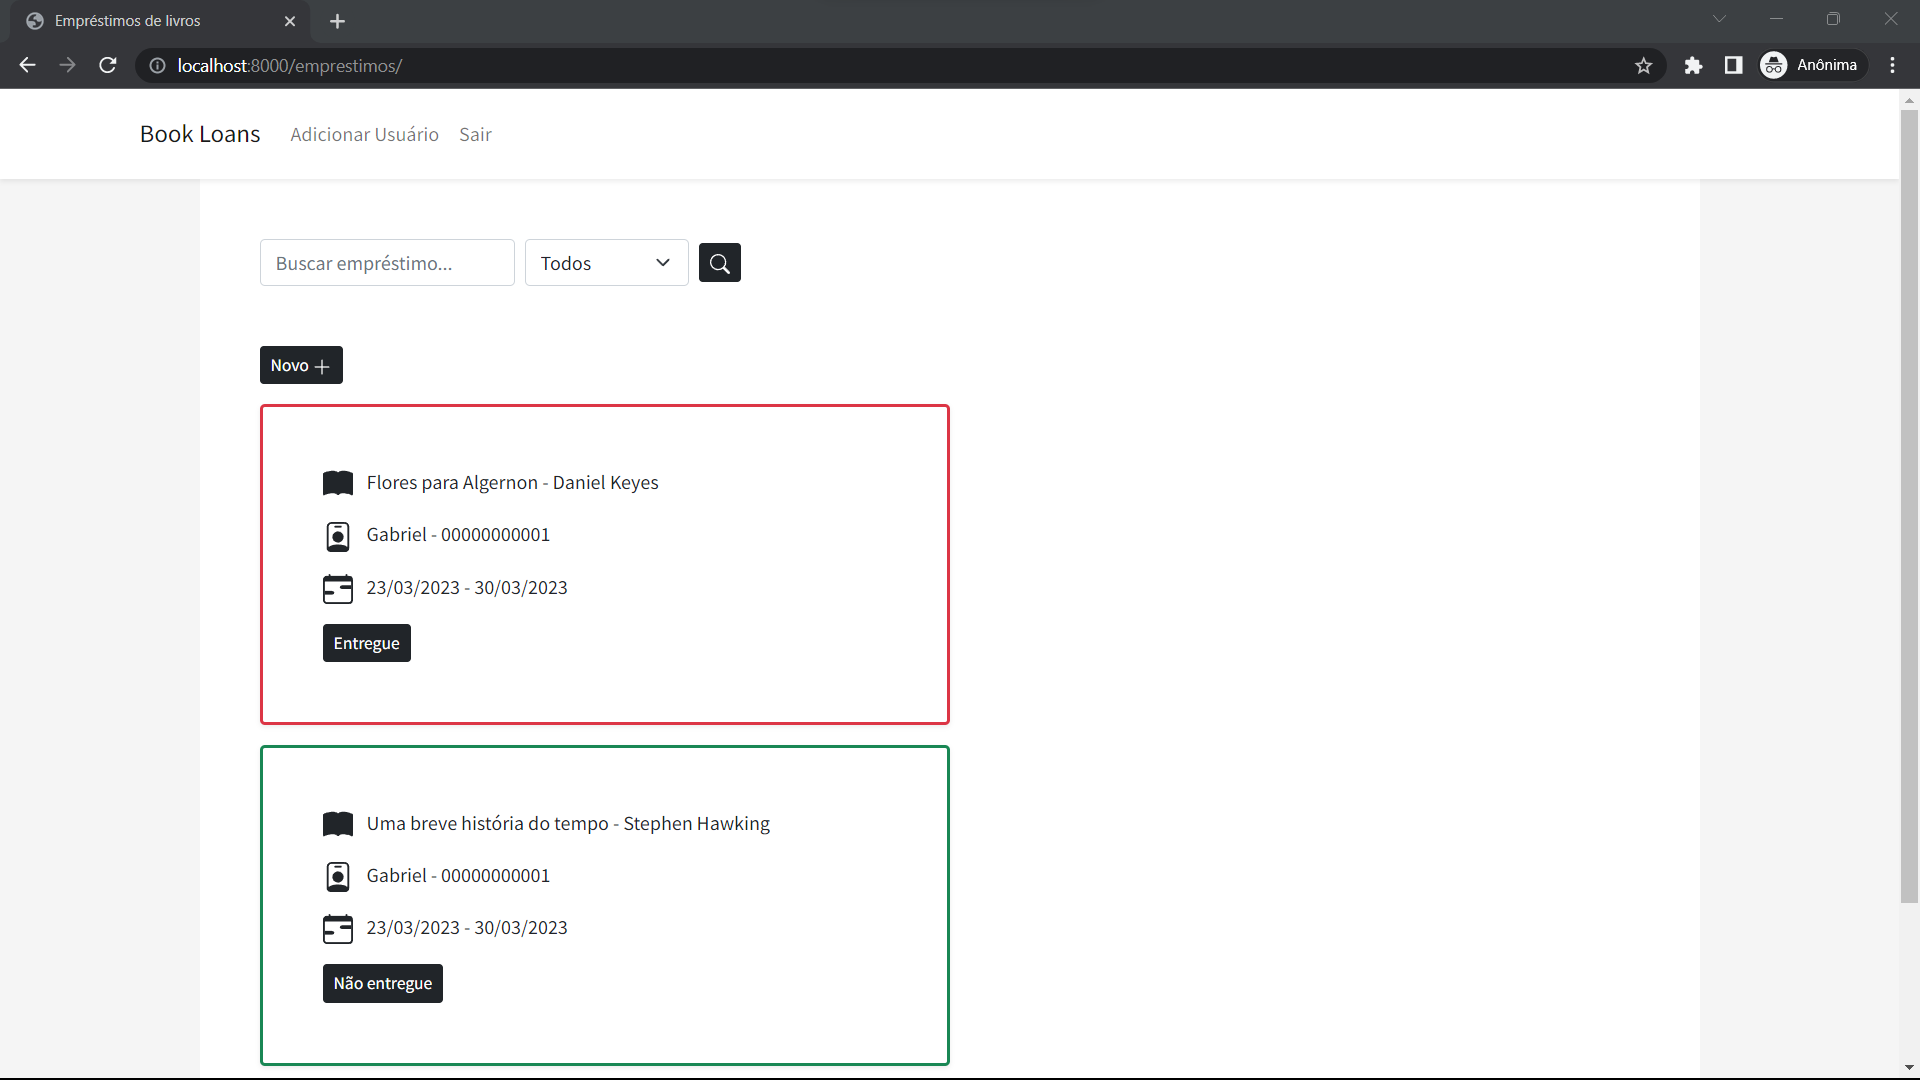
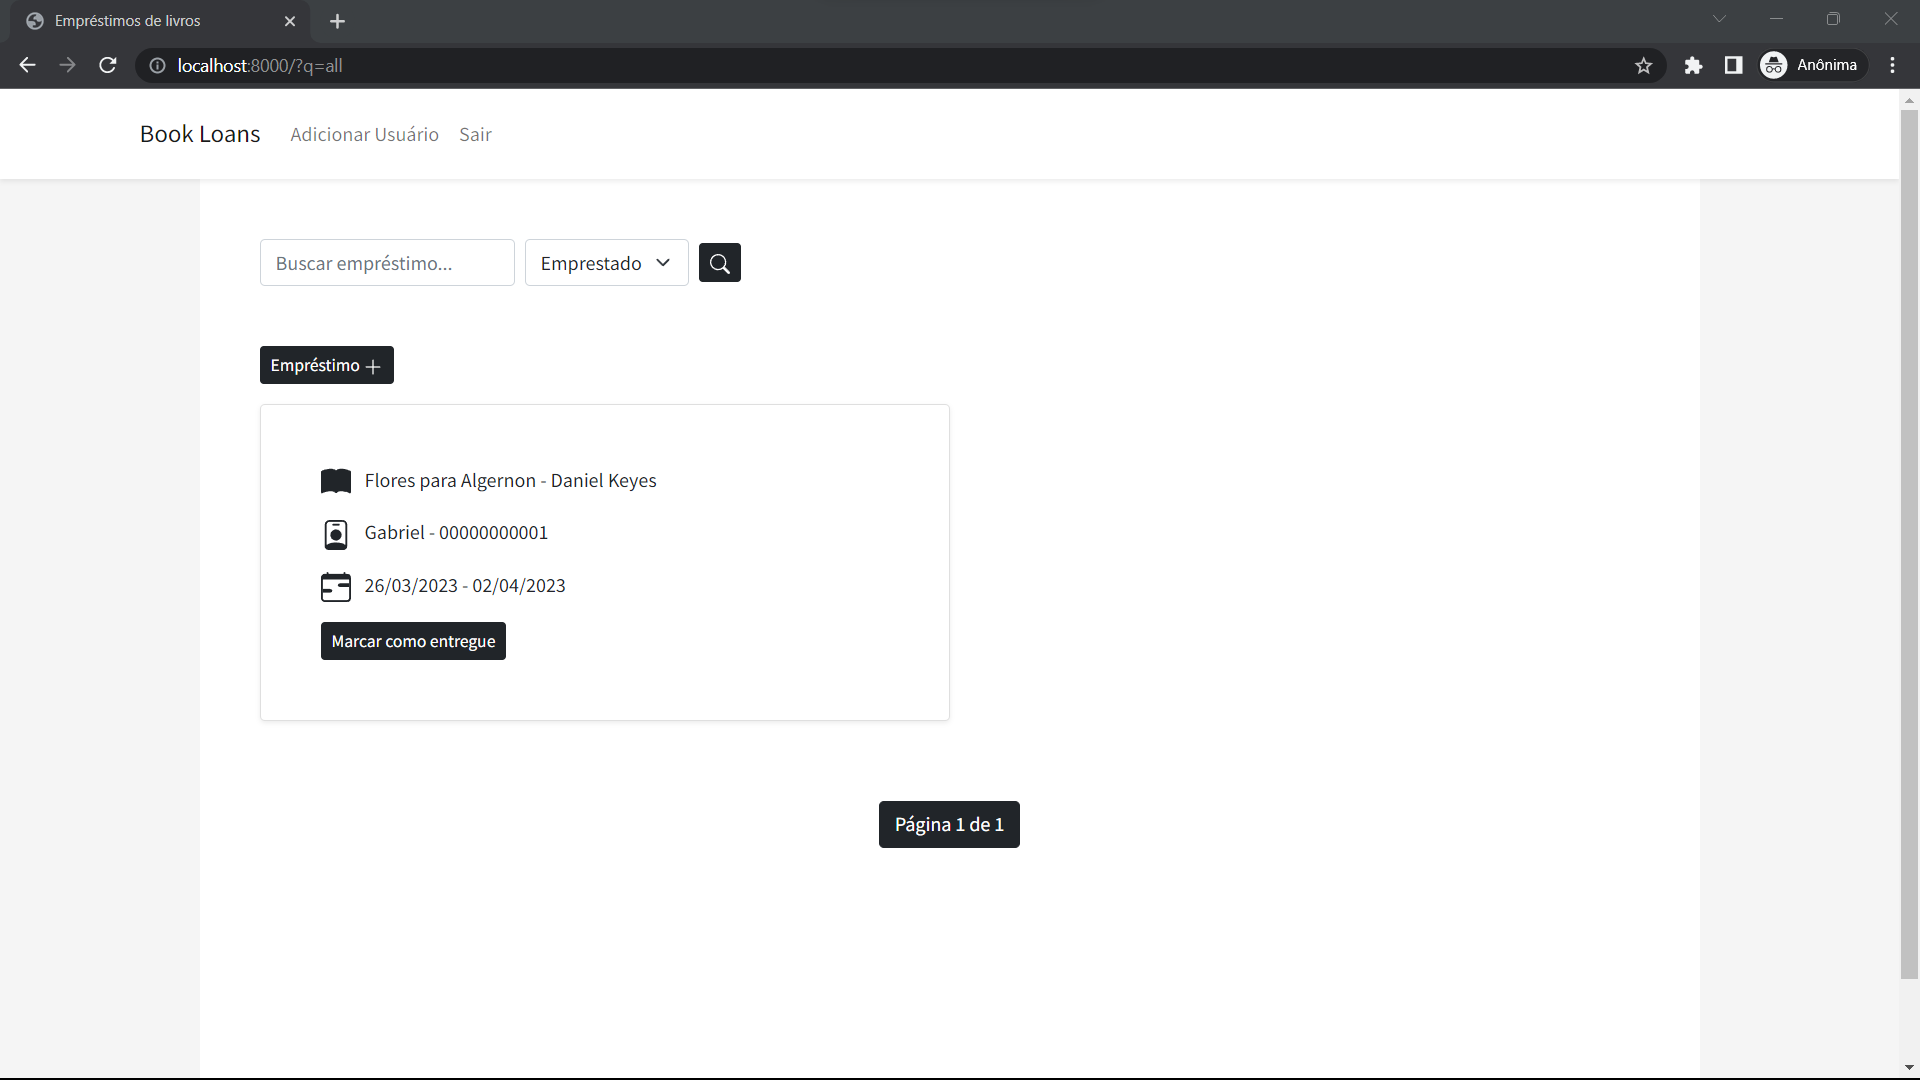
View and template updated to only allow marking return as done.

diff --git a/templates/book_loans/loans.html b/templates/book_loans/loans.html
@@ -20,17 +20,38 @@
     <div class="container-fluid my-5">
         <div class="row">
             <div class="col-12 mb-3 px-0">
-                <a class="btn btn-dark btn-sm m-0" href="{% url 'book_loans:create_loan' %}">Novo {% bs_icon 'plus-lg' %}</a>
+                <a class="btn btn-dark btn-sm m-0" href="{% url 'book_loans:create_loan' %}">Empréstimo {% bs_icon 'plus-lg' %}</a>
             </div>
             {% for loan in loans %}
-                <div class="card p-5 shadow-sm me-3 mb-3 col-12 col-lg-6 border-3 {% if loan.returned %}border-success{% else %}border-danger{% endif %}">
+                <div class="card p-5 shadow-sm me-3 mb-3 col-12 col-lg-6">
                     <p>{% bs_icon 'book-fill' size='1.5em' extra_classes='me-2' %} {{ loan.book.title }} - {{ loan.book.author }}</p>
                     <p>{% bs_icon 'person-badge' size='1.5em' extra_classes='me-2' %} {{ loan.borrower.name }} - {{ loan.borrower.cpf }}</p>
                     <p>{% bs_icon 'calendar-range' size='1.5em'  extra_classes='me-2' %} {{ loan.date_added|date:"SHORT_DATE_FORMAT" }} - {{ loan.date_return|date:"SHORT_DATE_FORMAT" }}</p>
-                    <form class="mt-auto" action="{% url 'book_loans:toggle_returned' loan.id %}" method="post">
-                        {% csrf_token %}
-                        <button class="btn btn-dark btn-sm" type="submit">{% if loan.returned %}Não entregue{% else %}Entregue{% endif %}</button>
-                    </form>
+                    {% if not loan.returned %}
+                        <div class="mt-auto">
+                            <button class="btn btn-sm btn-dark" type="button" data-bs-toggle="modal" data-bs-target="#loan{{ loan.id }}">Marcar como entregue</button>
+                        </div>
+
+                        <div class="modal fade" id="loan{{ loan.id }}" tabindex="-1" aria-labelledby="exampleModalLabel" aria-hidden="true">
+                            <div class="modal-dialog modal-dialog-centered">
+                                <div class="modal-content">
+                                    <div class="modal-header">
+                                        <h1 class="modal-title fs-5" id="exampleModalLabel">
+                                            Tem certeza que deseja marcar o livro como entregue?
+                                        </h1>
+                                        <button type="button" class="btn-close" data-bs-dismiss="modal" aria-label="Close"></button>
+                                    </div>
+                                    <div class="modal-footer">
+                                        <button type="button" class="btn btn-sm btn-dark" data-bs-dismiss="modal">Cancelar</button>
+                                        <form action="{% url 'book_loans:toggle_returned' loan.id %}?q={{ q }}" method="post">
+                                            {% csrf_token %}
+                                            <button class="btn btn-danger btn-sm" type="submit">Confirmar</button>
+                                        </form>
+                                    </div>
+                                </div>
+                            </div>
+                        </div>
+                    {% endif %}
                 </div>
             {% empty %}
                 <p class="alert alert-danger">Não foram encontrados registros de empréstimos</p>

diff --git a/templates/book_loans/create_loan.html b/templates/book_loans/create_loan.html
@@ -1,12 +1,13 @@
 {% extends 'base.html' %}
+{% load bootstrap_icons %}
 
 {% block content %}
     
-    {% include 'form.html' with form=form form_title='Adicionar um novo empréstimo' btn_value='Adicionar' %}
+    {% include 'form.html' with form=form form_title='Novo empréstimo' btn_value='Adicionar' %}
 
     <div class="mt-5">
-        <a class="btn btn-dark btn-sm" href="{% url 'book_loans:create_book' %}">Adicionar novo livro</a>
-        <a class="btn btn-dark btn-sm" href="{% url 'book_loans:create_borrower' %}">Adicionar novo leitor</a>
+        <a class="btn btn-dark btn-sm me-2" href="{% url 'book_loans:create_book' %}">Livro {% bs_icon 'plus-lg' %}</a>
+        <a class="btn btn-dark btn-sm" href="{% url 'book_loans:create_borrower' %}">Leitor {% bs_icon 'plus-lg' %}</a>
     </div>
 
 {% endblock %}

diff --git a/book_loans/views.py b/book_loans/views.py
@@ -1,7 +1,7 @@
 from datetime import date
 from django.views import generic
 from django.contrib.messages.views import SuccessMessageMixin
-from django.urls import reverse_lazy
+from django.urls import reverse_lazy, reverse
 from django.db.models import Q
 from django.contrib.auth.mixins import LoginRequiredMixin
 from django.shortcuts import get_object_or_404, redirect
@@ -27,16 +27,18 @@ class ListBookLoansView(LoginRequiredMixin, generic.ListView):
         return context
 
     def get_queryset(self):
-        q = self.request.GET.get("q", "all")
+        q = self.request.GET.get("q", "lent")
         search = self.request.GET.get("search", "")
-        queryset = models.Loan.objects.all()
+        queryset = models.Loan.objects.filter(
+            returned=False, date_return__gte=date.today()
+        )
 
         if q == "late":
-            queryset = queryset.filter(date_return__lt=date.today(), returned=False)
+            queryset = models.Loan.objects.filter(
+                date_return__lt=date.today(), returned=False
+            )
         elif q == "returned":
-            queryset = queryset.filter(returned=True)
-        elif q == "lent":
-            queryset = queryset.filter(returned=False, date_return__gte=date.today())
+            queryset = models.Loan.objects.filter(returned=True)
 
         if search:
             queryset = queryset.filter(
@@ -66,7 +68,7 @@ class CreateBookView(LoginRequiredMixin, SuccessMessageMixin, generic.CreateView
 
     def get_context_data(self, **kwargs):
         context = super().get_context_data(**kwargs)
-        context["form_title"] = "Adicionar um novo livro"
+        context["form_title"] = "Novo livro"
         context["btn_value"] = "Adicionar"
         return context
 
@@ -80,7 +82,7 @@ class CreateBorrowerView(LoginRequiredMixin, SuccessMessageMixin, generic.Create
 
     def get_context_data(self, **kwargs):
         context = super().get_context_data(**kwargs)
-        context["form_title"] = "Adicionar um novo leitor"
+        context["form_title"] = "Novo leitor"
         context["btn_value"] = "Adicionar"
         return context
 
@@ -89,9 +91,10 @@ def toggle_returned(request, loan_id):
     loan = get_object_or_404(models.Loan, id=loan_id)
 
     if request.method == "POST":
+        q = request.GET.get("q", "lent")
         loan.returned = not loan.returned
         loan.save()
         messages.success(request, "Status atualizado com sucesso")
-        return redirect("book_loans:loans")
+        return redirect(reverse("book_loans:loans") + f"?q={q}")
     else:
         raise Http404

diff --git a/book_loans/forms.py b/book_loans/forms.py
@@ -6,12 +6,15 @@ from . import models
 
 class FilterLoansForm(forms.Form):
     CHOICES = (
-        ("all", "Todos"),
-        ("late", "Em atraso"),
         ("lent", "Emprestado"),
+        ("late", "Em atraso"),
         ("returned", "Devolvido"),
     )
-    search = forms.CharField(label="", required=False, widget=forms.TextInput(attrs={'placeholder':'Buscar empréstimo...'}))
+    search = forms.CharField(
+        label="",
+        required=False,
+        widget=forms.TextInput(attrs={"placeholder": "Buscar empréstimo..."}),
+    )
     q = forms.ChoiceField(choices=CHOICES, label="")
 
     def __init__(self, *args, **kwargs):

diff --git a/book_loans/urls.py b/book_loans/urls.py
@@ -5,7 +5,7 @@ from . import views
 app_name = "book_loans"
 
 urlpatterns = [
-    path("emprestimos/", views.ListBookLoansView.as_view(), name="loans"),
+    path("", views.ListBookLoansView.as_view(), name="loans"),
     path("novo_emprestimo/", views.CreateBookLoansView.as_view(), name="create_loan"),
     path("novo_livro/", views.CreateBookView.as_view(), name="create_book"),
     path("novo_leitor/", views.CreateBorrowerView.as_view(), name="create_borrower"),
